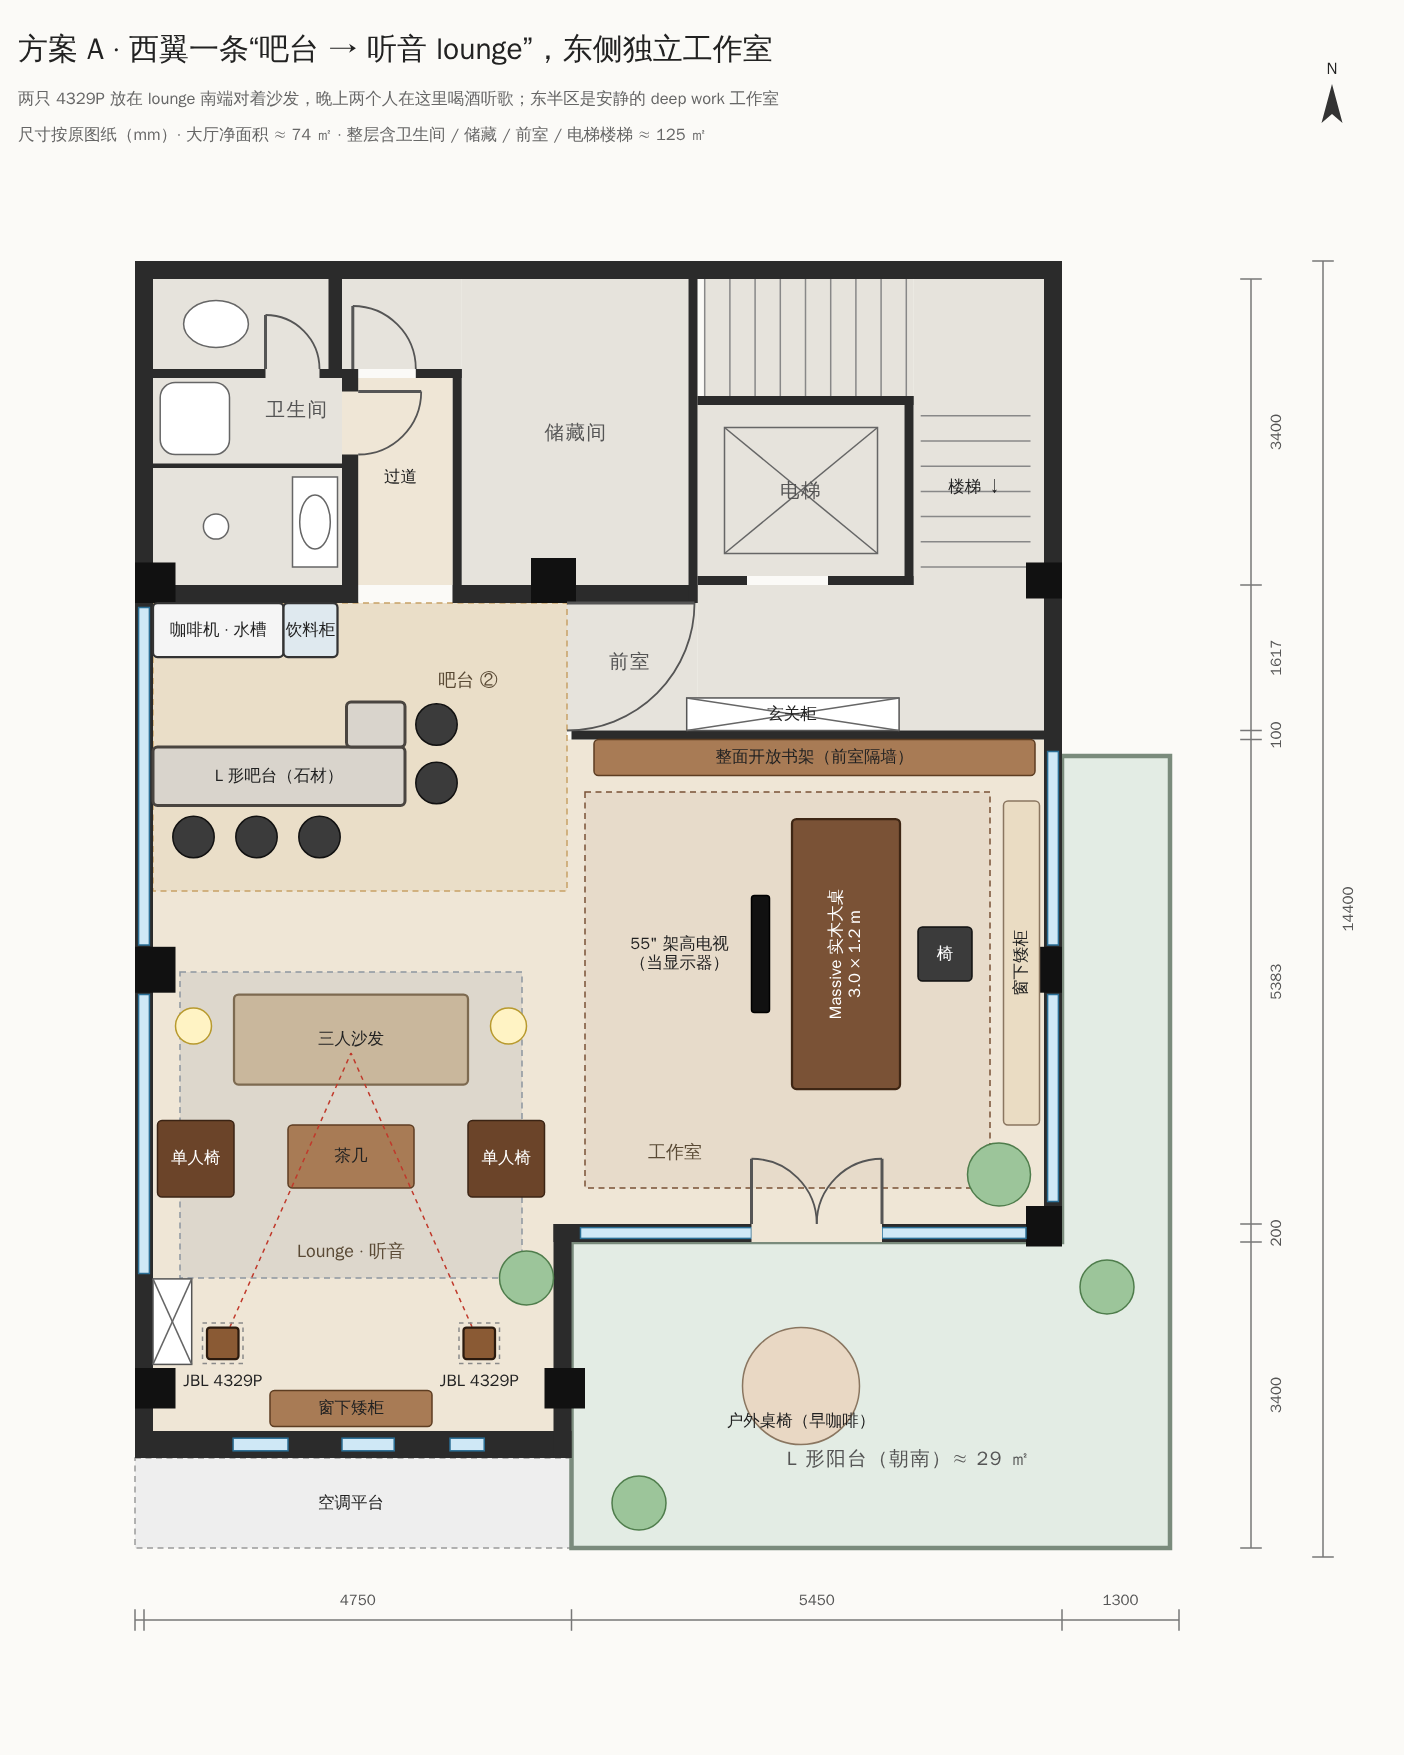
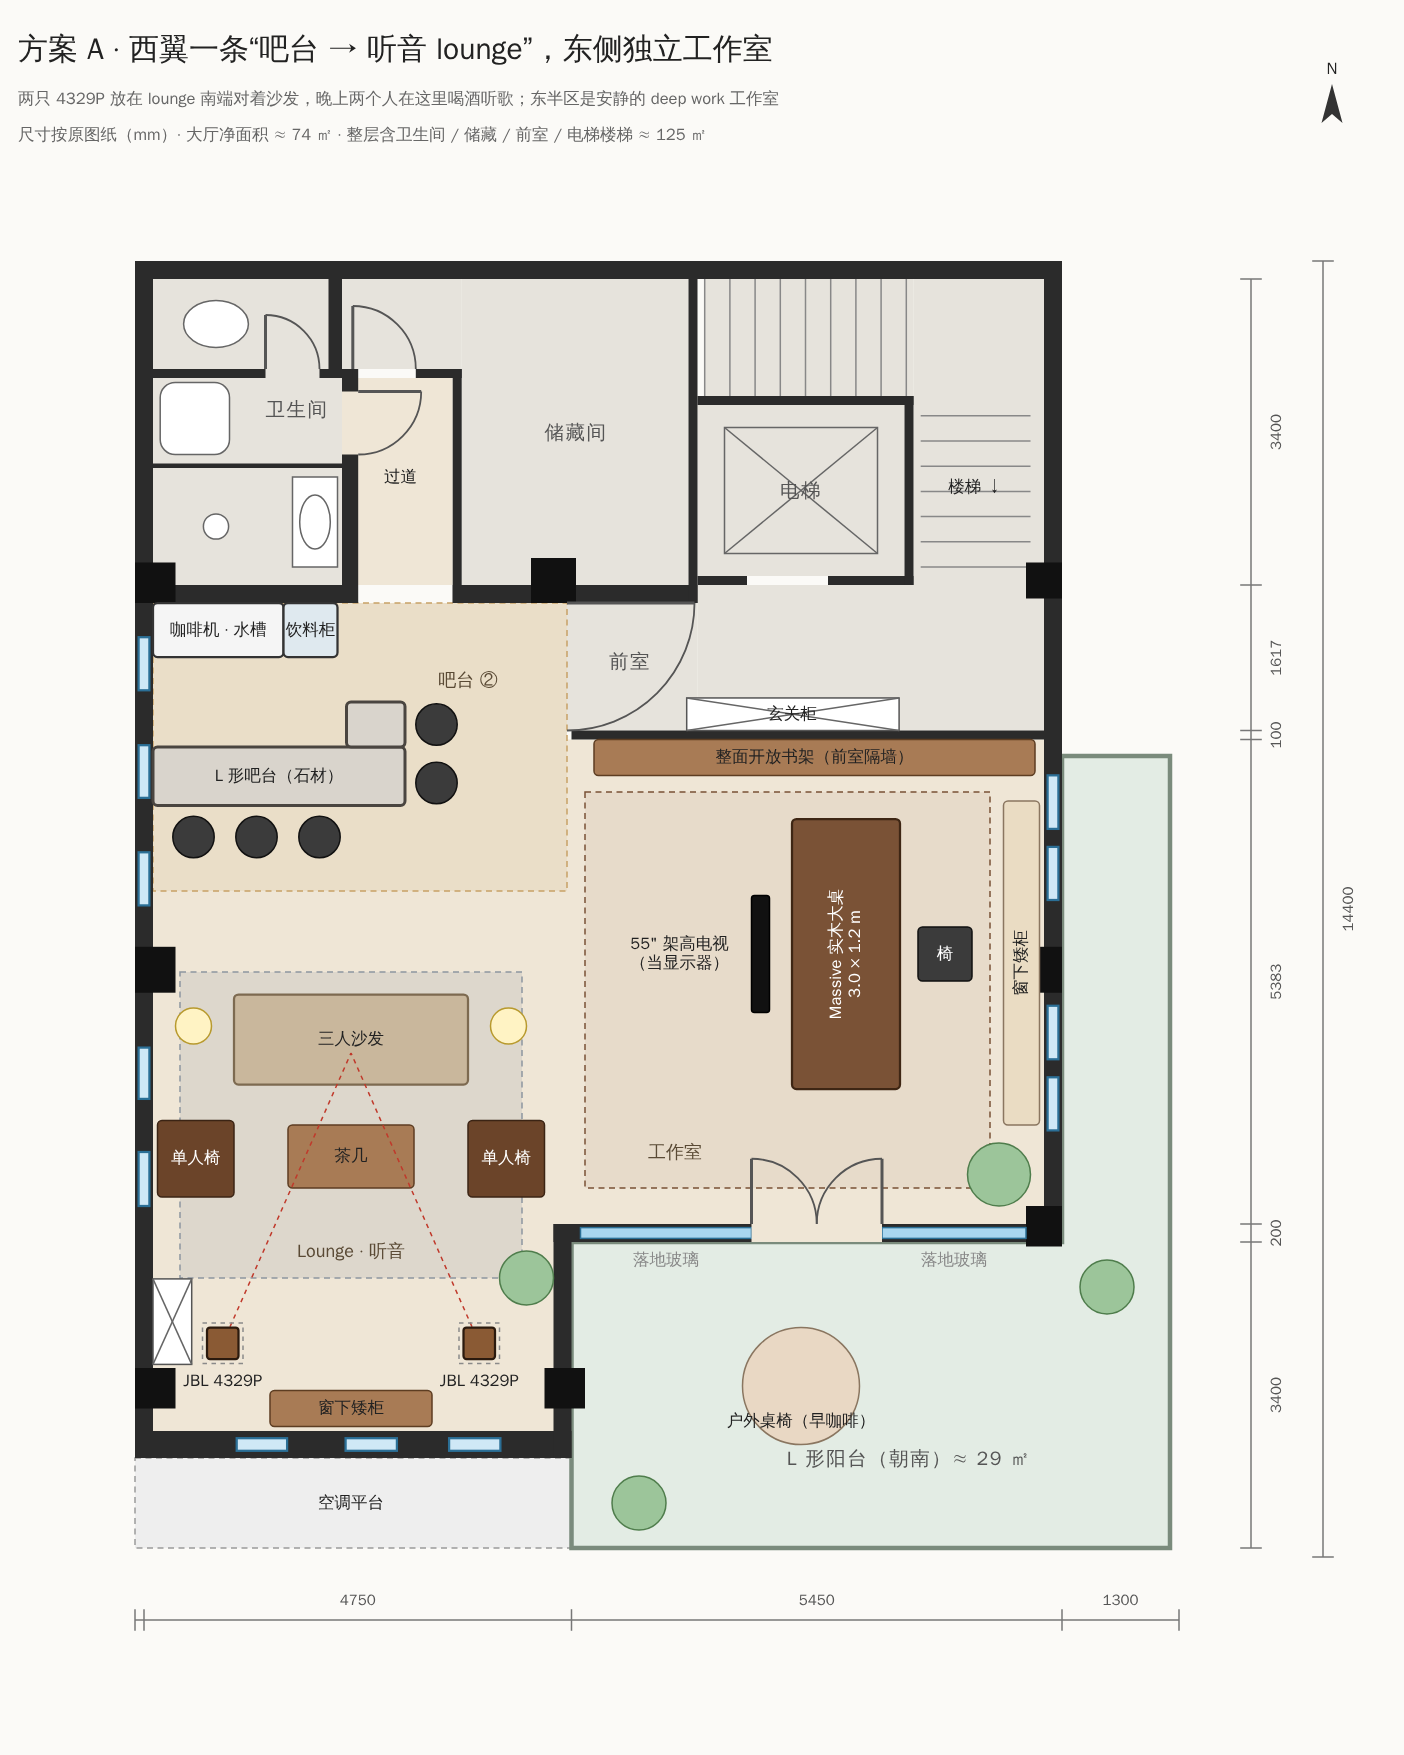
Floor plan: correct windows to the narrow openings in the drawing
West wall has five ~0.6 m windows (not two long bands), east wall four
narrow windows in two pairs, and the SW end three; only the balcony
side is floor-to-ceiling glass. Glass is now drawn distinctly.

Claude-Session: https://claude.ai/code/session_01UszicjF1djv9j8mqGC9SHb

diff --git a/loft-floor-plan/README.md b/loft-floor-plan/README.md
@@ -27,8 +27,9 @@ python3 floor_plan.py     # 生成 base.svg / plan_a.svg / plan_b.svg / bar_opti
 ## 空间（上北下南）
 
 - 南：L 形大阳台（约 29 ㎡），东半区南墙有阳台对开门
-- 西：长窗（日落方向）；西翼南端是一个带南窗的窗区
-- 东：两扇窗
+- 西：五扇约 0.6 m 宽的窄窗（北三南二），窗间是实墙；西翼南端有三扇窄窗
+- 东：四扇窄窗，两两一组（原佛龛在两组之间）
+- 只有朝南阳台那面是落地玻璃 + 对开门
 - 北：卫生间、储藏间、前室、电梯、楼梯。现有小水吧贴着卫生间南墙，吧台都从这里的上下水长出来
 - 大厅是 L 形，净面积约 74 ㎡
 
